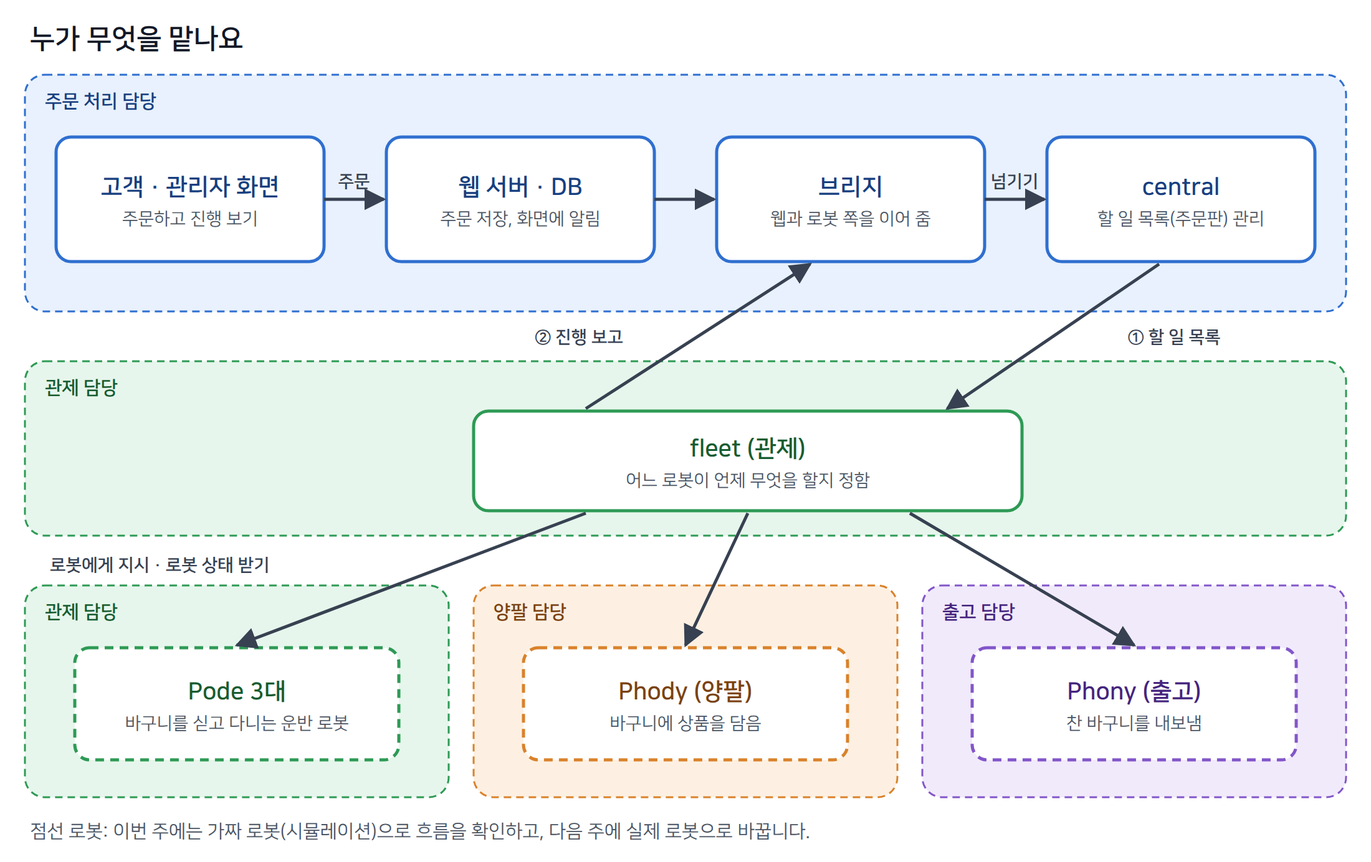
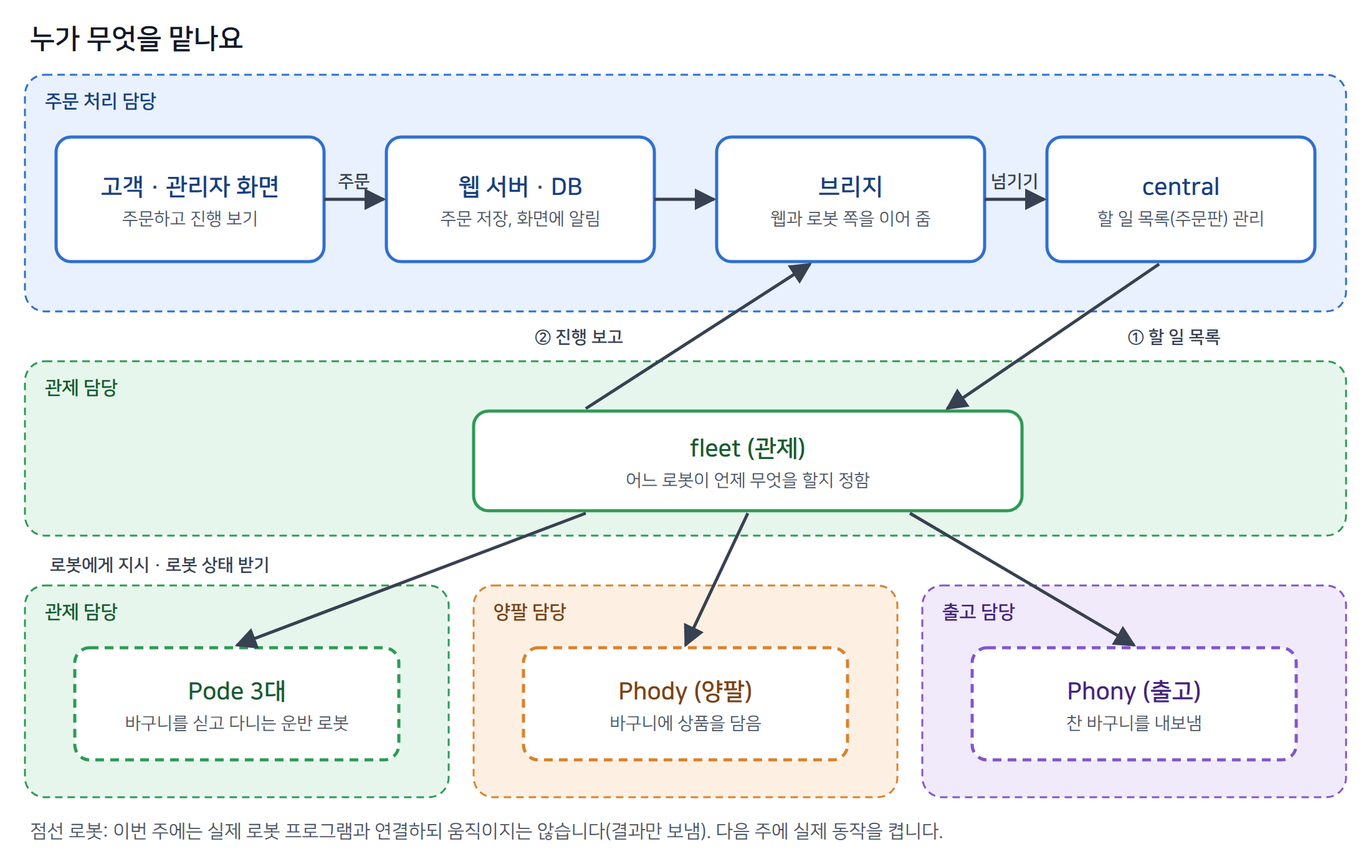
docs(설계): 주문 흐름 1차에 로봇 3종 연동(실제 동작 제외)과 팔 이름 변경 반영
- 범위: Pode · Phody · Phony 로봇 노드를 0.6 인터페이스로 연결, 실제 동작만 뺌 (완료 기준 5)
- 4.5 fleet ↔ 로봇 인터페이스와 동작 없음 처리 제안
- 4.6 팔 이름 arm1 · arm2 · arm3 → arm_left · arm_right · arm_ship (바꿀 곳, 한 커밋 원칙)
- 6.3 로봇 구간 규칙 이번 주 / 다음 주 구분, 8장 양팔 · 출고 할 일, 9장 동작 없음 처리 · 시험 네트워크
- 안내 그림 1 설명 문구 수정

Changed region(s): [[0.2164, 0.9321, 0.68, 0.9942], [0.1545, 0.9321, 0.1855, 0.9942]]

diff --git a/design/diagrams/sprint4_guide/1_전체_구성과_담당.html b/design/diagrams/sprint4_guide/1_전체_구성과_담당.html
@@ -1,1 +1,1 @@
-<!doctype html><meta charset="utf-8"><style>html,body{margin:0}</style><svg xmlns="http://www.w3.org/2000/svg" width="1100" height="692" viewBox="0 0 1100 692" font-family="NanumSquare, 'Noto Sans CJK KR', sans-serif"><defs><marker id="ah" viewBox="0 0 10 10" refX="9" refY="5" markerWidth="7" markerHeight="7" orient="auto-start-reverse"><path d="M0,0 L10,5 L0,10 z" fill="#374151"/></marker></defs><rect width="1100" height="692" fill="#ffffff"/><text x="24" y="38" font-size="22" font-weight="bold" fill="#111827" text-anchor="start">누가 무엇을 맡나요</text><rect x="20" y="60" width="1060" height="190" rx="16" fill="#e8f1fd" stroke="#2f6fd0" stroke-width="1.5" stroke-dasharray="6 4"/><text x="36" y="86" font-size="15" font-weight="bold" fill="#163f80" text-anchor="start">주문 처리 담당</text><rect x="45" y="110" width="215" height="100" rx="12" fill="#fff" stroke="#2f6fd0" stroke-width="2.5"/><text x="152.5" y="156.0" font-size="19" font-weight="bold" fill="#163f80" text-anchor="middle">고객 · 관리자 화면</text><text x="152.5" y="180.0" font-size="14" font-weight="normal" fill="#4b5563" text-anchor="middle">주문하고 진행 보기</text><rect x="310" y="110" width="215" height="100" rx="12" fill="#fff" stroke="#2f6fd0" stroke-width="2.5"/><text x="417.5" y="156.0" font-size="19" font-weight="bold" fill="#163f80" text-anchor="middle">웹 서버 · DB</text><text x="417.5" y="180.0" font-size="14" font-weight="normal" fill="#4b5563" text-anchor="middle">주문 저장, 화면에 알림</text><rect x="575" y="110" width="215" height="100" rx="12" fill="#fff" stroke="#2f6fd0" stroke-width="2.5"/><text x="682.5" y="156.0" font-size="19" font-weight="bold" fill="#163f80" text-anchor="middle">브리지</text><text x="682.5" y="180.0" font-size="14" font-weight="normal" fill="#4b5563" text-anchor="middle">웹과 로봇 쪽을 이어 줌</text><rect x="840" y="110" width="215" height="100" rx="12" fill="#fff" stroke="#2f6fd0" stroke-width="2.5"/><text x="947.5" y="156.0" font-size="19" font-weight="bold" fill="#163f80" text-anchor="middle">central</text><text x="947.5" y="180.0" font-size="14" font-weight="normal" fill="#4b5563" text-anchor="middle">할 일 목록(주문판) 관리</text><line x1="260" y1="160" x2="308" y2="160" stroke="#374151" stroke-width="2.5" marker-end="url(#ah)"/><text x="284.0" y="150" font-size="14" font-weight="bold" fill="#374151" text-anchor="middle">주문</text><line x1="525" y1="160" x2="573" y2="160" stroke="#374151" stroke-width="2.5" marker-end="url(#ah)"/><line x1="790" y1="160" x2="838" y2="160" stroke="#374151" stroke-width="2.5" marker-end="url(#ah)"/><text x="814.0" y="150" font-size="14" font-weight="bold" fill="#374151" text-anchor="middle">넘기기</text><rect x="20" y="290" width="1060" height="140" rx="16" fill="#e6f6ec" stroke="#2e9a55" stroke-width="1.5" stroke-dasharray="6 4"/><text x="36" y="316" font-size="15" font-weight="bold" fill="#165c30" text-anchor="start">관제 담당</text><rect x="380" y="330" width="440" height="80" rx="12" fill="#fff" stroke="#2e9a55" stroke-width="2.5"/><text x="600.0" y="366.0" font-size="19" font-weight="bold" fill="#165c30" text-anchor="middle">fleet (관제)</text><text x="600.0" y="390.0" font-size="14" font-weight="normal" fill="#4b5563" text-anchor="middle">어느 로봇이 언제 무엇을 할지 정함</text><line x1="930" y1="212" x2="760" y2="328" stroke="#374151" stroke-width="2.5" marker-end="url(#ah)"/><text x="905" y="275" font-size="14" font-weight="bold" fill="#374151" text-anchor="start">① 할 일 목록</text><line x1="470" y1="328" x2="650" y2="212" stroke="#374151" stroke-width="2.5" marker-end="url(#ah)"/><text x="500" y="275" font-size="14" font-weight="bold" fill="#374151" text-anchor="end">② 진행 보고</text><rect x="20" y="470" width="340" height="170" rx="16" fill="#e6f6ec" stroke="#2e9a55" stroke-width="1.5" stroke-dasharray="6 4"/><text x="36" y="496" font-size="15" font-weight="bold" fill="#165c30" text-anchor="start">관제 담당</text><rect x="380" y="470" width="340" height="170" rx="16" fill="#fdf0e2" stroke="#d9822b" stroke-width="1.5" stroke-dasharray="6 4"/><text x="396" y="496" font-size="15" font-weight="bold" fill="#7a4210" text-anchor="start">양팔 담당</text><rect x="740" y="470" width="340" height="170" rx="16" fill="#f1eafb" stroke="#8256c9" stroke-width="1.5" stroke-dasharray="6 4"/><text x="756" y="496" font-size="15" font-weight="bold" fill="#45247d" text-anchor="start">출고 담당</text><rect x="60" y="520" width="260" height="90" rx="12" fill="#fff" stroke="#2e9a55" stroke-width="2.5" stroke-dasharray="7 5"/><text x="190.0" y="561.0" font-size="19" font-weight="bold" fill="#165c30" text-anchor="middle">Pode 3대</text><text x="190.0" y="585.0" font-size="14" font-weight="normal" fill="#4b5563" text-anchor="middle">바구니를 싣고 다니는 운반 로봇</text><rect x="420" y="520" width="260" height="90" rx="12" fill="#fff" stroke="#d9822b" stroke-width="2.5" stroke-dasharray="7 5"/><text x="550.0" y="561.0" font-size="19" font-weight="bold" fill="#7a4210" text-anchor="middle">Phody (양팔)</text><text x="550.0" y="585.0" font-size="14" font-weight="normal" fill="#4b5563" text-anchor="middle">바구니에 상품을 담음</text><rect x="780" y="520" width="260" height="90" rx="12" fill="#fff" stroke="#8256c9" stroke-width="2.5" stroke-dasharray="7 5"/><text x="910.0" y="561.0" font-size="19" font-weight="bold" fill="#45247d" text-anchor="middle">Phony (출고)</text><text x="910.0" y="585.0" font-size="14" font-weight="normal" fill="#4b5563" text-anchor="middle">찬 바구니를 내보냄</text><line x1="470" y1="412" x2="190" y2="518" stroke="#374151" stroke-width="2.5" marker-end="url(#ah)"/><line x1="600" y1="412" x2="550" y2="518" stroke="#374151" stroke-width="2.5" marker-end="url(#ah)"/><line x1="730" y1="412" x2="910" y2="518" stroke="#374151" stroke-width="2.5" marker-end="url(#ah)"/><text x="40" y="458" font-size="14" font-weight="bold" fill="#374151" text-anchor="start">로봇에게 지시 · 로봇 상태 받기</text><text x="24" y="672" font-size="15" font-weight="normal" fill="#4b5563" text-anchor="start">점선 로봇: 이번 주에는 가짜 로봇(시뮬레이션)으로 흐름을 확인하고, 다음 주에 실제 로봇으로 바꿉니다.</text></svg>
+<!doctype html><meta charset="utf-8"><style>html,body{margin:0}</style><svg xmlns="http://www.w3.org/2000/svg" width="1100" height="692" viewBox="0 0 1100 692" font-family="NanumSquare, 'Noto Sans CJK KR', sans-serif"><defs><marker id="ah" viewBox="0 0 10 10" refX="9" refY="5" markerWidth="7" markerHeight="7" orient="auto-start-reverse"><path d="M0,0 L10,5 L0,10 z" fill="#374151"/></marker></defs><rect width="1100" height="692" fill="#ffffff"/><text x="24" y="38" font-size="22" font-weight="bold" fill="#111827" text-anchor="start">누가 무엇을 맡나요</text><rect x="20" y="60" width="1060" height="190" rx="16" fill="#e8f1fd" stroke="#2f6fd0" stroke-width="1.5" stroke-dasharray="6 4"/><text x="36" y="86" font-size="15" font-weight="bold" fill="#163f80" text-anchor="start">주문 처리 담당</text><rect x="45" y="110" width="215" height="100" rx="12" fill="#fff" stroke="#2f6fd0" stroke-width="2.5"/><text x="152.5" y="156.0" font-size="19" font-weight="bold" fill="#163f80" text-anchor="middle">고객 · 관리자 화면</text><text x="152.5" y="180.0" font-size="14" font-weight="normal" fill="#4b5563" text-anchor="middle">주문하고 진행 보기</text><rect x="310" y="110" width="215" height="100" rx="12" fill="#fff" stroke="#2f6fd0" stroke-width="2.5"/><text x="417.5" y="156.0" font-size="19" font-weight="bold" fill="#163f80" text-anchor="middle">웹 서버 · DB</text><text x="417.5" y="180.0" font-size="14" font-weight="normal" fill="#4b5563" text-anchor="middle">주문 저장, 화면에 알림</text><rect x="575" y="110" width="215" height="100" rx="12" fill="#fff" stroke="#2f6fd0" stroke-width="2.5"/><text x="682.5" y="156.0" font-size="19" font-weight="bold" fill="#163f80" text-anchor="middle">브리지</text><text x="682.5" y="180.0" font-size="14" font-weight="normal" fill="#4b5563" text-anchor="middle">웹과 로봇 쪽을 이어 줌</text><rect x="840" y="110" width="215" height="100" rx="12" fill="#fff" stroke="#2f6fd0" stroke-width="2.5"/><text x="947.5" y="156.0" font-size="19" font-weight="bold" fill="#163f80" text-anchor="middle">central</text><text x="947.5" y="180.0" font-size="14" font-weight="normal" fill="#4b5563" text-anchor="middle">할 일 목록(주문판) 관리</text><line x1="260" y1="160" x2="308" y2="160" stroke="#374151" stroke-width="2.5" marker-end="url(#ah)"/><text x="284.0" y="150" font-size="14" font-weight="bold" fill="#374151" text-anchor="middle">주문</text><line x1="525" y1="160" x2="573" y2="160" stroke="#374151" stroke-width="2.5" marker-end="url(#ah)"/><line x1="790" y1="160" x2="838" y2="160" stroke="#374151" stroke-width="2.5" marker-end="url(#ah)"/><text x="814.0" y="150" font-size="14" font-weight="bold" fill="#374151" text-anchor="middle">넘기기</text><rect x="20" y="290" width="1060" height="140" rx="16" fill="#e6f6ec" stroke="#2e9a55" stroke-width="1.5" stroke-dasharray="6 4"/><text x="36" y="316" font-size="15" font-weight="bold" fill="#165c30" text-anchor="start">관제 담당</text><rect x="380" y="330" width="440" height="80" rx="12" fill="#fff" stroke="#2e9a55" stroke-width="2.5"/><text x="600.0" y="366.0" font-size="19" font-weight="bold" fill="#165c30" text-anchor="middle">fleet (관제)</text><text x="600.0" y="390.0" font-size="14" font-weight="normal" fill="#4b5563" text-anchor="middle">어느 로봇이 언제 무엇을 할지 정함</text><line x1="930" y1="212" x2="760" y2="328" stroke="#374151" stroke-width="2.5" marker-end="url(#ah)"/><text x="905" y="275" font-size="14" font-weight="bold" fill="#374151" text-anchor="start">① 할 일 목록</text><line x1="470" y1="328" x2="650" y2="212" stroke="#374151" stroke-width="2.5" marker-end="url(#ah)"/><text x="500" y="275" font-size="14" font-weight="bold" fill="#374151" text-anchor="end">② 진행 보고</text><rect x="20" y="470" width="340" height="170" rx="16" fill="#e6f6ec" stroke="#2e9a55" stroke-width="1.5" stroke-dasharray="6 4"/><text x="36" y="496" font-size="15" font-weight="bold" fill="#165c30" text-anchor="start">관제 담당</text><rect x="380" y="470" width="340" height="170" rx="16" fill="#fdf0e2" stroke="#d9822b" stroke-width="1.5" stroke-dasharray="6 4"/><text x="396" y="496" font-size="15" font-weight="bold" fill="#7a4210" text-anchor="start">양팔 담당</text><rect x="740" y="470" width="340" height="170" rx="16" fill="#f1eafb" stroke="#8256c9" stroke-width="1.5" stroke-dasharray="6 4"/><text x="756" y="496" font-size="15" font-weight="bold" fill="#45247d" text-anchor="start">출고 담당</text><rect x="60" y="520" width="260" height="90" rx="12" fill="#fff" stroke="#2e9a55" stroke-width="2.5" stroke-dasharray="7 5"/><text x="190.0" y="561.0" font-size="19" font-weight="bold" fill="#165c30" text-anchor="middle">Pode 3대</text><text x="190.0" y="585.0" font-size="14" font-weight="normal" fill="#4b5563" text-anchor="middle">바구니를 싣고 다니는 운반 로봇</text><rect x="420" y="520" width="260" height="90" rx="12" fill="#fff" stroke="#d9822b" stroke-width="2.5" stroke-dasharray="7 5"/><text x="550.0" y="561.0" font-size="19" font-weight="bold" fill="#7a4210" text-anchor="middle">Phody (양팔)</text><text x="550.0" y="585.0" font-size="14" font-weight="normal" fill="#4b5563" text-anchor="middle">바구니에 상품을 담음</text><rect x="780" y="520" width="260" height="90" rx="12" fill="#fff" stroke="#8256c9" stroke-width="2.5" stroke-dasharray="7 5"/><text x="910.0" y="561.0" font-size="19" font-weight="bold" fill="#45247d" text-anchor="middle">Phony (출고)</text><text x="910.0" y="585.0" font-size="14" font-weight="normal" fill="#4b5563" text-anchor="middle">찬 바구니를 내보냄</text><line x1="470" y1="412" x2="190" y2="518" stroke="#374151" stroke-width="2.5" marker-end="url(#ah)"/><line x1="600" y1="412" x2="550" y2="518" stroke="#374151" stroke-width="2.5" marker-end="url(#ah)"/><line x1="730" y1="412" x2="910" y2="518" stroke="#374151" stroke-width="2.5" marker-end="url(#ah)"/><text x="40" y="458" font-size="14" font-weight="bold" fill="#374151" text-anchor="start">로봇에게 지시 · 로봇 상태 받기</text><text x="24" y="672" font-size="15" font-weight="normal" fill="#4b5563" text-anchor="start">점선 로봇: 이번 주에는 실제 로봇 프로그램과 연결하되 움직이지는 않습니다(결과만 보냄). 다음 주에 실제 동작을 켭니다.</text></svg>

diff --git a/design/diagrams/sprint4_guide/make.py b/design/diagrams/sprint4_guide/make.py
@@ -67,7 +67,7 @@ b += node(420, 520, 260, 90, "양팔", "Phody (양팔)", "바구니에 상품을
 b += node(780, 520, 260, 90, "출고", "Phony (출고)", "찬 바구니를 내보냄", dashed=True)
 b += arrow(470, 412, 190, 518) + arrow(600, 412, 550, 518) + arrow(730, 412, 910, 518)
 b += text(40, 458, "로봇에게 지시 · 로봇 상태 받기", 14, "bold", "#374151", "start")
-b += text(24, 672, "점선 로봇: 이번 주에는 가짜 로봇(시뮬레이션)으로 흐름을 확인하고, 다음 주에 실제 로봇으로 바꿉니다.", 15, "normal", "#4b5563", "start")
+b += text(24, 672, "점선 로봇: 이번 주에는 실제 로봇 프로그램과 연결하되 움직이지는 않습니다(결과만 보냄). 다음 주에 실제 동작을 켭니다.", 15, "normal", "#4b5563", "start")
 page("1_전체_구성과_담당", 1100, 692, b, "누가 무엇을 맡나요")
 
 # 2. 주문 한 건의 여정

diff --git a/docs/설계/주문_흐름_1차_인터페이스.md b/docs/설계/주문_흐름_1차_인터페이스.md
@@ -3,15 +3,17 @@
 - 목적: 이번 주 목표인 **주문 한 건이 화면에서 출고 완료까지 흐름**에 쓰는 인터페이스를 고르고, 구간 B ~ E를 담당별로 나눕니다.
 - 원본: 이름 · 타입 · 칸은 [인터페이스 명세](인터페이스_명세.md)(v0.2)와 `interfaces/fleet_interfaces/contract.yaml`을 따릅니다. 이 문서는 **고른 목록, 담당, 이번 주 간이 처리**만 적습니다.
 - 규칙: [통신 규칙](통신_규칙.md)(`IR-nn`). 간이 처리라도 6장의 규칙은 빼지 않습니다.
-- 상태: 초안 · 작성 2026-11-23 · 수정 2026-11-23 (fleet 앞뒤 구분, 통신 규칙 적용, 0.6 확인 방법, 담당 구분, central · fleet 역할, fleet 추가 작업 C안, `ReportTrip` 상황과 형식, 이번 주 선행 개발 기술 스택, WS `data` 칸, 로봇 처리 먼저 · 웹 뒤로 다시 배치)
+- 상태: 초안 · 작성 2026-11-23 · 수정 2026-11-23 (fleet 앞뒤 구분, 통신 규칙 적용, 0.6 확인 방법, 담당 구분, central · fleet 역할, fleet 추가 작업 C안, `ReportTrip` 상황과 형식, 이번 주 선행 개발 기술 스택, WS `data` 칸, 로봇 처리 먼저 · 웹 뒤로 다시 배치) · 수정 2026-11-24 (AMR · 양팔 · 출고 로봇까지 모두 연동, 실제 동작만 뺌, 팔 이름 변경 포함)
 
 ## 1. 이번 주 범위
 
 | 넣음 | 뺌 (다음 주 이후) |
 |---|---|
-| 주문 접수 → 운반 건 넘기기 → 주문판 → 배정 → 진행 보고 → 화면 반영 → 주문판에서 빼기 | 취소, 관리 명령, `ReportCommand` · `ReportEvent`, 결품 확인(`CheckStock`), 재시작 복구(`ListOpenTrips`), 마감, 실제 로봇 액션, 팔 상태 |
+| 주문 접수 → 운반 건 넘기기 → 주문판 → 배정 → 진행 보고 → 화면 반영 → 주문판에서 빼기 | 취소, 관리 명령, `ReportCommand` · `ReportEvent`, 결품 확인(`CheckStock`), 재시작 복구(`ListOpenTrips`), 마감 |
+| **로봇 연동**: fleet ↔ Pode 3대 · Phody(`arm_left` · `arm_right`) · Phony(`arm_ship`) 로봇 노드를 0.6 인터페이스로 연결 (4.5). 로봇 노드는 명령을 받고 결과 · 상태를 보내되 **움직이지 않음** | **로봇 실제 동작** (Pode 주행 · 도킹, 팔 집기 · 놓기, 바구니 교환) |
+| **팔 이름 변경**: 0.6 `arm1` · `arm2` · `arm3` → 명세 v0.2 `arm_left` · `arm_right` · `arm_ship` (4.6) | 명세 v0.2의 나머지 구간 E 변경: 팔 상태(`/{arm}/state`), `set_lock` · `fault_resolved` · `charge_end`, 팔 멈춤 · 이어서(Q-05) |
 | fleet 켜질 때 세대 번호(`Hello`) | WS `since_seq` 다시 보내기 (첫 연결 스냅샷만) |
-| 로봇 상태 화면 표시 (가짜 값) | 로봇 `set_mode` · `force` |
+| 로봇 상태 화면 표시 (Pode 노드가 보낸 값) | 로봇 `set_mode` · `force` |
 | 운영 모드 선택 절차 (켤 때 정함 + 화면 표시 · 모달, 마감은 생략) | 실행 중 모드 전환, 모드별 마감 |
 
 **완료 기준**
@@ -19,6 +21,7 @@
 2. DB `trip`의 상태 · `report_epoch` · `report_n`이 마지막 보고와 같다.
 3. 같은 `ReportTrip`을 두 번 보내면 두 번째는 `DUPLICATE`이고 DB가 바뀌지 않는다.
 4. 시험 모드로 켜면 고객 화면이 "점검 중"이고 주문이 막힌다.
+5. 가짜 로봇 노드(`sim/fake_robots/`) 없이, 주문 한 건 동안 fleet이 Pode `move_to` · `dock`, Phody `fill_basket`, Phony `swap_basket`을 각 로봇 노드에 보내고 결과를 받는다. 로봇은 움직이지 않는다.
 
 ## 2. 정의 표시와 확인 방법
 
@@ -68,10 +71,10 @@ git show origin/main:interfaces/fleet_interfaces/srv/ReportOrder.srv
 |---|---|
 | **주문** 처리 | 화면 · 웹 · DB(구간 A), 브리지, central. central은 주문 진행 상태를 주문판 기준으로 관리 |
 | **관제** (AMR · 중앙 관제) | fleet 전체: `pc/fleet_core/`(주문 코어 `orders/` · 교통 층), `pc/fleet_manager/`(ROS 노드), Pode(`pode1` ~ `pode3`). fleet 안의 업무 배정은 이후 확정 |
-| **양팔** 로봇 제어 | Phody `arm_left` · `arm_right` (작업대 담기) |
-| **출고** 로봇 제어 | Phony `arm_ship` (바구니 교환) |
+| **양팔** 로봇 제어 | Phody `arm_left` · `arm_right` (작업대 담기). 코드 `arm/arm_control/` |
+| **출고** 로봇 제어 | Phony `arm_ship` (바구니 교환). 코드 `arm/arm_control/` |
 
-로봇 이름은 `config/robots.yaml`을 따릅니다(IR-03).
+로봇 이름은 `config/robots.yaml`을 따릅니다(IR-03). 0.6 이름 `arm1` · `arm2` · `arm3`은 **이번 주에 명세 v0.2 이름 `arm_left` · `arm_right` · `arm_ship`으로 바꿉니다** (4.6). 기본 연동이 끝나면 로봇별로 따로 개발하므로, 그 전에 이름을 맞춰 둡니다.
 
 ### 3.2 central과 fleet의 역할
 
@@ -97,12 +100,12 @@ git show origin/main:interfaces/fleet_interfaces/srv/ReportOrder.srv
 | C 관리 명령 | 운반 건 `TripCommand` 6개, 로봇 `confirm_clear` · `reinstate` · `set_lock` · `fault_resolved` · `resume_arm` · `charge_end` · `force_input` | 주문 (브리지) | **관제** | 없음 |
 | D 주문판 | `/central/orders` | 주문 (central) | **관제** (`orders/`) | 씀 |
 | D 끝난 건 | `/central/report_order` | **관제** | 주문 (central) | 씀 |
-| E 상태 모음 | `/fleet/robots` | **관제** | 주문 (브리지 · central) | 가짜 값 |
-| E 관제 토픽 | `/fleet/assignments` · `/fleet/zones` · `/fleet/heartbeat` | **관제** | 로봇 전부 (각 로봇 담당) | 없음 |
+| E 상태 모음 | `/fleet/robots` | **관제** | 주문 (브리지 · central) | Pode 노드 상태로 채움 (팔은 다음 주) |
+| E 관제 토픽 | `/fleet/assignments` · `/fleet/zones` · `/fleet/heartbeat` | **관제** | 로봇 전부 (각 로봇 담당) | 씀 (0.6 그대로) |
 | E 기록 | `/central/events` | 주문 · 관제 | (기록) | 없음 |
-| E Pode | `/{pode}/state` (Pode → fleet), `move_to` · `dock` · `retreat` 액션, `check_clear` · `charge_end` · `set_lock` 서비스 | **관제** | **관제** (Pode 노드) | 없음 |
-| E Phody | `/{arm}/state` (팔 → fleet), `/workcell/fill_basket` 액션, `fault_resolved` · `set_lock` 서비스, 팔 멈춤 · 이어서(Q-05) | 상태: **양팔** · 명령: **관제** | 상태: **관제** · 명령: **양팔** | 없음 |
-| E Phony | `/arm_ship/state`, `/arm_ship/swap_basket` 액션 | 상태: **출고** · 명령: **관제** | 상태: **관제** · 명령: **출고** | 없음 |
+| E Pode | `/{pode}/state` (Pode → fleet), `move_to` · `dock` · `retreat` 액션, `check_clear` · `charge_end` · `set_lock` 서비스 | **관제** | **관제** (Pode 노드) | `state` · `move_to` · `dock` · `retreat` · `check_clear` (0.6), 동작 없음 |
+| E Phody | `/{arm}/state` (팔 → fleet), `/workcell/fill_basket` 액션, `fault_resolved` · `set_lock` 서비스, 팔 멈춤 · 이어서(Q-05) | 상태: **양팔** · 명령: **관제** | 상태: **관제** · 명령: **양팔** | `/workcell/fill_basket` (0.6)만, 동작 없음. 팔 이름 `arm_left` · `arm_right` |
+| E Phony | `/arm_ship/state`, `/arm_ship/swap_basket` 액션 | 상태: **출고** · 명령: **관제** | 상태: **관제** · 명령: **출고** | `/arm_ship/swap_basket`만 (0.6 `SwapBasket`, 이름만 바뀜), 동작 없음 |
 | E 로봇 공통 | `/{robot}/set_mode` · `/{robot}/force` | **관제** | 관제 · 양팔 · 출고 (각자 로봇 노드) | 없음 |
 
 정리하면 구간 B는 주문 처리 안에서 끝나고(`/system/mode` 구독만 fleet), 주문과 관제가 만나는 곳은 **구간 C · D**와 **`/fleet/robots`**, 관제와 로봇 담당이 만나는 곳은 **구간 E**입니다.
@@ -127,14 +130,14 @@ git show origin/main:interfaces/fleet_interfaces/srv/ReportOrder.srv
 | F-06 | ④ 세대 번호 | `/bridge/hello` | 서비스, fleet → 브리지(서버) | `Hello` | 신규 | DB `bridge_session` epoch +1 후 응답. 같은 `boot_id`로 다시 오면 epoch를 올리지 않고 처음 값을 그대로 돌려줌 (`TODO(Q-09)`). 직전 epoch 진행 건 `HELD`(`FLEET_RESTART`) 처리는 넣되 복구 화면은 없음 | (`fleet_manager_node`, 주문이 만듦) 켜지면 맨 먼저 부름. 다시 보낼 때 같은 `boot_id`를 쓰고, 한도를 넘긴 요청은 버려 마지막 요청의 응답만 씀. 받은 `epoch`를 보고에 씀 |
 | F-08 | ⑥ 보고 | `/bridge/report_trip` | 서비스, fleet → 브리지(서버) | `ReportTrip` | 신규 | F-09로 DB에 쓰고 커밋 뒤 응답. 결과 `APPLIED` · `DUPLICATE` · `LATE_REPORT` | (`fleet_manager_node`, 주문이 만듦) 주문 코어가 낸 단계(4.3)를 `ASSIGNED` → `FILLING` → `TRANSPORTING` → `SHIPPED`로 보고. 보고마다 `(report_epoch, report_n)`, 지금 상태 전체 |
 | F-10 | ⑧ 끝 | `/central/report_order` | 서비스, fleet → central(서버) | `ReportOrder` (`order_id`에 `trip_id` 값) | 0.6 | 주문판에서 그 건을 빼고 F-05를 다시 발행. 주문 진행 상태(주문판 기준)를 고침 | (`fleet_manager_node`, 주문이 고침) `SHIPPED` 보고가 `accepted=true`를 받은 뒤 부름. 주문 코어의 0.6 `ReportOrderCmd`는 그대로 |
-| F-11 | 로봇 상태 | `/fleet/robots` | 토픽 LATCHED, fleet → 브리지 · central | `RobotStatusArray` | 0.6 | 브리지가 구독해 F-12로 넘김. central은 구독만 | 가짜 로봇과 도는 실제 fleet이 발행 (Pode 3대). 팔은 다음 주 (0.6에 `kind` 칸 없음) |
+| F-11 | 로봇 상태 | `/fleet/robots` | 토픽 LATCHED, fleet → 브리지 · central | `RobotStatusArray` | 0.6 | 브리지가 구독해 F-12로 넘김. central은 구독만 | Pode 노드 3대의 `/{pode}/state`를 모아 발행. 팔은 다음 주 (0.6에 `kind` 칸 없음) |
 | F-13 | 운영 모드 | `/system/mode` | 토픽 LATCHED, 브리지 → central · fleet | `SystemMode` | 신규 | 브리지가 켤 때 설정 값 발행. central은 받아서 로그만 | 받아서 로그만 (로봇 `set_mode`와 다르면 거부는 다음 주) |
 
 ### 4.3 fleet 안 (관제)
 
 | 번호 | 단계 | 이름 | 이번 주 간이 처리 |
 |---|---|---|---|
-| F-07 | ⑤ 배정 · 운행 | 주문 코어(`orders/`) + 교통 층 | 간이 배정을 따로 만들지 않고, 팀 main의 실제 fleet을 가짜 로봇(`sim/fake_robots/`)과 함께 돌림. 가짜 central은 끄고 우리 central을 씀 (`ros2 launch iponic_bringup pc.launch.py use_fake:=true fake_central:=false`). 단계가 바뀔 때마다 F-08로 보고 |
+| F-07 | ⑤ 배정 · 운행 | 주문 코어(`orders/`) + 교통 층 | 간이 배정을 따로 만들지 않고 팀 main의 실제 fleet을 씀. 가짜 로봇 · 가짜 팔 · 가짜 central을 모두 끄고 로봇 노드(4.5)와 우리 central에 붙임 (`ros2 launch iponic_bringup pc.launch.py use_fake:=false`). 단계가 바뀔 때마다 F-08로 보고 |
 
 이번 주 흐름을 돌리려면 fleet에 아래 두 가지를 더합니다 (C안: 나눠 맡음).
 
@@ -144,7 +147,8 @@ git show origin/main:interfaces/fleet_interfaces/srv/ReportOrder.srv
 | 2. `fleet_manager_node`의 `Hello` · `ReportTrip` 클라이언트 | 주문 | `pc/fleet_manager/`. 0.6 `ReportOrder` 클라이언트와 같은 방식. `epoch` · `report_n` · `stamp`를 붙이고, 다시 보내기 · 최신 상태로 바꿔 끼우기(IR-22 ~ IR-25, IR-40), `ReportOrder`를 `SHIPPED` 보고 뒤에 부르기 |
 
 - 2번은 1번이 들어오기 전에도 만들 수 있습니다. 1번이 늦으면 주문 쪽은 8장의 "가짜 fleet"으로 브리지 · 웹을 먼저 시험합니다.
-- 다음 주에는 가짜 로봇 자리를 실물 로봇(구간 E, 3.3의 Pode · Phody · Phony 줄)으로 바꿔 시험합니다.
+- 로봇 노드가 늦으면 그 로봇만 가짜 노드로 바꿔 돌립니다 (예: `use_fake:=true fake_central:=false fake_robots:=none fake_arms:="arm_ship"`). 완료 기준 5는 가짜 노드 없이 확인합니다.
+- 다음 주에는 로봇 실제 동작을 켜고, 명세 v0.2의 구간 E 변경(1장 "뺌")을 넣습니다.
 
 ### 4.4 `ReportTrip` 상황과 형식 (제안, 첫날 관제와 합의)
 
@@ -216,6 +220,48 @@ class ReportTripCmd:
 - 운반 건마다 하나씩 순서대로 보냅니다. 기다리는 보고가 있으면 최신 상태로 바꿔 끼우고 새 `n`을 붙입니다(IR-23).
 - `SHIPPED` · `PARTIAL` · `CANCELLED`가 `accepted=true`를 받은 뒤에 `ReportOrder`를 부릅니다(F-10).
 
+### 4.5 fleet ↔ 로봇 (구간 E, 동작 없이)
+
+fleet이 로봇 노드에 보내는 명령과 로봇이 보내는 상태입니다. 타입은 **0.6 그대로** 쓰고(contract에 줄이 있는 것만), 팔 이름만 4.6대로 바꿉니다. 로봇 노드는 실제 실행 위치(Pode 본체, 팔 PC)에서 띄우고, **움직이는 부분만 "동작 없음 처리"로 바꿉니다**: 명령을 받으면 정해진 시간을 기다린 뒤 실제로 움직였을 때와 같은 피드백 · 결과 · 상태를 보냅니다.
+
+| 이름 | 종류 · 방향 | 타입 (0.6) | 로봇 노드 (담당) | 동작 없음 처리 (제안) |
+|---|---|---|---|---|
+| `/{pode}/state` | 토픽 STATE, Pode → fleet | `RobotState` | `pode/pode_fsm` (관제) | 초당 5번 안팎. 위치는 마지막으로 도착한 목표 값 |
+| `/fleet/heartbeat` | 토픽 HEARTBEAT, fleet → 로봇 | `std_msgs/Header` | Pode 노드 (관제) | 1.5초 끊기면 멈춤 상태로 바꿈 (IR-34). 실제로 멈출 바퀴는 없음 |
+| `/{pode}/move_to` | 액션, fleet → Pode | `MoveTo` | Pode 노드 (관제) | 주행하지 않고 정해진 시간 뒤 성공. 위치를 목표로 바꿈 |
+| `/{pode}/dock` · `/{pode}/retreat` | 액션, fleet → Pode | `Dock` · `Retreat` | Pode 노드 (관제) | 정해진 시간 뒤 성공. 도킹은 지금 쓰는 `DOCK_STUB=1` 방식과 맞춤 |
+| `/{pode}/check_clear` | 서비스, fleet → Pode | `CheckClear` | Pode 노드 (관제) | 늘 비어 있음으로 응답 |
+| `/workcell/fill_basket` | 액션, fleet → Phody | `FillBasket` | `arm/arm_control` (양팔). `arm_left` · `arm_right`가 서버 하나를 함께 씀 | 집고 놓지 않고 0.6 피드백 순서대로 보낸 뒤 결과. 담은 수 = 요청 수. 결품 시험은 설정으로 `missing`을 냄 |
+| `/arm_ship/swap_basket` | 액션, fleet → Phony | `SwapBasket` | `arm/arm_control` (출고) | 바구니를 바꾸지 않고 0.6 피드백 순서대로 보낸 뒤 성공 |
+
+- 기준 동작은 가짜 노드(`sim/fake_robots/`의 `fake_pode_node` · `fake_workcell_node` · `fake_arm_node`)입니다. 로봇 노드의 피드백 · 결과가 가짜 노드와 같은 순서 · 같은 칸이면 fleet은 차이를 모릅니다.
+- `arm/arm_control`은 지금 README만 있습니다. 양팔 · 출고는 액션 서버를 새로 만듭니다 (실제 동작은 다음 주에 같은 서버 안에 넣음).
+- 동작 없음 처리를 켜는 방법 · 걸리는 시간 · Pode 위치를 바꾸는 방법은 9장에서 정합니다.
+
+### 4.6 팔 이름 바꾸기 (첫날)
+
+명세 v0.2의 이름으로 바꿉니다. Pode(`pode1` ~ `pode3`)와 `/workcell/fill_basket`은 그대로입니다.
+
+| 0.6 | 바꾼 이름 | 로봇 |
+|---|---|---|
+| `arm1` | `arm_left` | Phody 왼팔 |
+| `arm2` | `arm_right` | Phody 오른팔 |
+| `arm3` | `arm_ship` | Phony 출고 팔 (`/arm_ship/swap_basket`) |
+
+바꿀 곳 (`origin/main`에서 `git grep -nwE 'arm[123]'`, 22개 파일 60곳 안팎)
+
+| 곳 | 파일 | 담당 |
+|---|---|---|
+| 계약 | `interfaces/fleet_interfaces/contract.yaml`: `placeholders.arm`, `swap_basket`의 `instances` | 주문 (7장 커밋에 함께) |
+| 로봇 목록 | `config/robots.yaml` | 관제 |
+| fleet | `pc/fleet_core/fleet_core/data/fleet_map_*.yaml`의 `arms` · `server`, `pc/fleet_core/test/` · `pc/fleet_manager/test/`의 시험 값 | 관제 |
+| 가짜 노드 · 실행 | `sim/fake_robots/`(`fake_arm_node`의 `arm_id` 기본값, `fake_workcell_node`, `fakes.launch.py`, 시나리오, 시험), `bringup/iponic_bringup/launch/pc.launch.py`의 `fake_arms` 기본값 · 설명 | 관제 |
+| 설명 | `.github/CODEOWNERS` 주석, `README.md`, `arm/arm_control/README.md`, `arm/arm_vision/README.md`, `docs/개발_규칙.md` | 각 담당 |
+
+- 한 번에 바꿔야 main이 깨지지 않습니다. 계약 · 설정 · 코드 · 시험을 **한 커밋**으로 넣고(IR-90), 그 커밋에서 fleet 시험과 가짜 노드 시험이 지나가야 합니다. 다른 작업은 이 커밋 뒤에 시작합니다.
+- 바꾼 뒤 `git grep -nwE 'arm[123]'`가 아무것도 내지 않으면 끝입니다 (지난 기록인 설계 문서는 빼고).
+- 명세(v0.2)는 이미 바꾼 이름을 쓰고 있어 고칠 것이 없습니다.
+
 ## 5. 웹 · 화면 인터페이스 (HTTP · WS · DB)
 
 고객 · 관리자 화면과 웹, 웹 DB 사이입니다. ROS 인터페이스가 아니며 주문 담당 안에서 끝납니다.
@@ -286,7 +332,7 @@ class ReportTripCmd:
 | IR-32 | 부르기 전 `wait_for_service` 5초 이상. 안 되면 "연결 안 됨" 표시 |
 | IR-33 · IR-70 | LATCHED 토픽은 발행 · 구독 모두 같은 프로필(transient_local). 다시 켜지면 마지막 값을 받고 나서 움직임 |
 | IR-41 | 다시 보낼 때 ±20% 무작위 지연, 노드별 동시 요청 상한 |
-| IR-81 | 시험은 `ROS_DOMAIN_ID=6`이 아닌 도메인 + `ROS_AUTOMATIC_DISCOVERY_RANGE=LOCALHOST` |
+| IR-81 | 시험은 `ROS_DOMAIN_ID=6`이 아닌 도메인 + `ROS_AUTOMATIC_DISCOVERY_RANGE=LOCALHOST`. 단, 로봇 연동 시험은 Pode · 팔 PC와 통신해야 해서 `LOCALHOST`를 쓸 수 없음 (9장) |
 
 ### 6.2 이번 주 인터페이스별
 
@@ -306,15 +352,17 @@ class ReportTripCmd:
 | F-12 · F-14 | IR-51 · IR-52 | 상태 메시지(최신 값만, 순번 없음). 고객 화면에는 "점검 중"만, 내부 사정은 싣지 않음 | 주문 |
 | F-15 | IR-50 | 관리 명령에 넣으면 같은 `Idempotency-Key`면 같은 결과 (이름은 9장) | 주문 |
 
-### 6.3 로봇 구간 담당이 지킬 것 (다음 주부터)
+### 6.3 로봇 구간 (구간 E)
 
-| 규칙 | 지킬 것 | 담당 |
-|---|---|---|
-| IR-21 | 로봇 명령은 목표 값으로 보냄(`set_lock(locked=true)`). 로봇 노드는 최근 32건의 `request_id`를 60초 기억 | 관제(보냄) · 관제 · 양팔 · 출고(로봇 노드) |
-| IR-34 | 관제 신호 0.5초 주기, 1.5초 끊기면 로봇이 멈춤. 로봇 상태는 초당 5번 안팎 | 관제(발행) · 각 로봇 |
-| IR-61 | 로봇 노드가 마지막 안전장치로 한 번 더 판단. 거절은 서비스 응답으로, 상태 토픽으로 알리지 않음 | 관제 · 양팔 · 출고 |
-| IR-62 | 로봇 응답이 없으면 실패가 아니라 "결과 모름"(`ROBOT_TIMEOUT`), 30초 안에 끝 상태를 한 번만 정함 | 관제 |
-| IR-63 · IR-72 | `force`는 시험 모드에서만. 켜질 때 모드 `UNKNOWN`, 강제 값 지움, 락 잠김, 상태에 `boot_id` | 관제 · 양팔 · 출고 |
+동작이 없어도 통신은 실제와 같으므로 이번 주에 쓰는 인터페이스(4.5)에는 규칙을 그대로 지킵니다.
+
+| 규칙 | 지킬 것 | 담당 | 적용 |
+|---|---|---|---|
+| IR-34 | 관제 신호 0.5초 주기, 1.5초 끊기면 로봇이 멈춤. 로봇 상태는 초당 5번 안팎 | 관제(발행) · 각 로봇 | 이번 주 |
+| IR-61 | 로봇 노드가 마지막 안전장치로 한 번 더 판단. 거절은 서비스 · 액션 응답으로, 상태 토픽으로 알리지 않음 | 관제 · 양팔 · 출고 | 이번 주 |
+| IR-62 | 로봇 응답이 없으면 실패가 아니라 "결과 모름"(`ROBOT_TIMEOUT`), 30초 안에 끝 상태를 한 번만 정함 | 관제 | 이번 주 |
+| IR-21 | 로봇 명령은 목표 값으로 보냄(`set_lock(locked=true)`). 로봇 노드는 최근 32건의 `request_id`를 60초 기억 | 관제(보냄) · 관제 · 양팔 · 출고(로봇 노드) | 다음 주 (`set_lock` 등과 함께) |
+| IR-63 · IR-72 | `force`는 시험 모드에서만. 켜질 때 모드 `UNKNOWN`, 강제 값 지움, 락 잠김, 상태에 `boot_id` | 관제 · 양팔 · 출고 | 다음 주 (`set_mode` · `force`와 함께) |
 
 ### 6.4 이번 주에 일부러 줄인 것
 
@@ -325,6 +373,7 @@ IR-93에 따라 설계 검토 사항에 적고, 코드에는 `TODO(Q-nn)`을 남
 | 모드가 다르면 연결 거부 | IR-73 | 로그만 |
 | 재시작 뒤 `ListOpenTrips` → 진행 재개 | IR-71 | `Hello`와 `HELD` 쓰기까지만 |
 | WS `since_seq` 다시 받기 | IR-51 | 첫 연결 스냅샷만 |
+| 로봇 실제 동작 | (규칙 아님) | 동작 없음 처리 (4.5). 로봇 노드 코드에 `TODO`로 표시 |
 
 ## 7. 이번 주에 contract에 넣을 정의
 
@@ -340,22 +389,25 @@ IR-93에 따라 설계 검토 사항에 적고, 코드에는 `TODO(Q-nn)`을 남
 - contract 이름 줄 추가: `/central/submit_trip` · `/bridge/hello` · `/bridge/report_trip` (서비스), `/system/mode` (토픽, LATCHED).
 - `OrderBoard` 칸 추가(`assign_hold` · `close_id`)는 마감과 함께 다음 주에 넣습니다. 이번 주에는 0.6 그대로 씁니다.
 - 0.6 contract의 `services`에는 `report_order`만 central 쪽에 있습니다. `submit_trip`은 새 줄로 넣습니다.
+- 로봇 연동(4.5)은 새 정의가 없습니다. contract에서 바꾸는 것은 팔 이름뿐입니다: `placeholders.arm`과 `swap_basket`의 `instances`를 `arm3` → `arm_ship`으로 (4.6). 이 바꿈은 코드와 함께 넣어야 해서 4.6의 한 커밋에 들어갑니다.
 - contract · 명세 · 통신 규칙은 같은 커밋에서 고칩니다 (IR-90). 넣은 뒤의 contract 버전 값은 넣을 때 정합니다.
 
 ## 8. 담당별 할 일
 
 | 담당 | 번호 | 상대편과 먼저 맞출 것 |
 |---|---|---|
-| 공통 (첫날) | 7장 정의 4개, 4.2 만나는 곳 6개의 칸, `ReportTripCmd` 칸과 단계 대응표(4.4) | 주문 · 관제 |
-| 관제: fleet | F-05(구독) · F-07 · F-11(발행) · F-13(구독), 4.3의 1 (`ReportTripCmd`), 가짜 로봇 실행 환경 | 주문: 4.2 전체 |
+| 공통 (첫날) | 7장 정의 4개, 4.2 만나는 곳 6개의 칸, `ReportTripCmd` 칸과 단계 대응표(4.4), 4.6 팔 이름 바꾸기 커밋 | 주문 · 관제 · 양팔 · 출고 |
+| 관제: fleet | F-05(구독) · F-07 · F-11(발행) · F-13(구독), 4.3의 1 (`ReportTripCmd`), 4.6 팔 이름 바꾸기(fleet · 가짜 노드 · 실행 파일), 로봇 연동 실행 환경 (가짜 노드 없이 띄우기) | 주문: 4.2 전체 · 양팔 · 출고: 4.5 |
+| 관제: Pode | 4.5 Pode 줄: `pode_fsm`의 동작 없음 처리 (주행 · 도킹 · 물러나기 대신 시간 뒤 성공, 위치 바꾸기) | — |
 | 주문: fleet 연결 코드 | 4.3의 2 (`fleet_manager_node`: F-06 · F-08 호출, F-10 부르는 순서) | 관제: 코드 검토 |
 | 주문: central (간이) | F-04(서버) · F-05(발행) · F-10(서버) · 주문판 기준 진행 상태 · F-11 · F-13(구독) | 관제: F-05 · F-10 |
 | 주문: 브리지 | F-03(전달) · F-04(호출) · F-06(서버) · F-08(서버) · F-09(호출) · F-11(구독) · F-12 · F-13(발행) | 관제: F-06 · F-08 · F-11 · F-13 |
 | 주문: 웹 (화면 · API · DB) | F-01 · F-02 · F-03 · F-09 · F-14 · F-15. `ws_event` 트리거가 5.2 WS `data` 칸을 채우게 고침 (`design/db/order_db_extra.sql`, 지금은 `{id, status}`) | — |
-| 양팔 · 출고 | 이번 주 없음. 다음 주 구간 E(3.3) 준비 | 관제 |
-| 통합 시험 | 1장 완료 기준 1 ~ 4 (별도 ROS 도메인, `docs/개발_규칙.md`) | 주문 · 관제 |
+| 양팔 | `/workcell/fill_basket` 액션 서버 (`arm/arm_control`, 0.6 `FillBasket`, `arm_left` · `arm_right`), 동작 없음 처리 | 관제: 피드백 순서 · 결과 칸 · 결품 흉내 |
+| 출고 | `/arm_ship/swap_basket` 액션 서버 (`arm/arm_control`, 0.6 `SwapBasket`), 동작 없음 처리 | 관제: 피드백 순서 · 결과 칸 |
+| 통합 시험 | 1장 완료 기준 1 ~ 5 (로봇 장치 포함, 시험 네트워크는 9장) | 주문 · 관제 · 양팔 · 출고 |
 
-- 제안: 서로 기다리지 않도록 만나는 곳마다 상대편 대역을 하나씩 둡니다. 주문 쪽은 "가짜 fleet"(주문판을 받아 `Hello` → `ReportTrip` → `ReportOrder`를 부름)으로, 관제 쪽은 "가짜 브리지 · central"(주문판 발행, `Hello` · `ReportTrip` · `ReportOrder` 응답)로 먼저 시험합니다.
+- 제안: 서로 기다리지 않도록 만나는 곳마다 상대편 대역을 하나씩 둡니다. 주문 쪽은 "가짜 fleet"(주문판을 받아 `Hello` → `ReportTrip` → `ReportOrder`를 부름)으로, 관제 쪽은 "가짜 브리지 · central"(주문판 발행, `Hello` · `ReportTrip` · `ReportOrder` 응답)로 먼저 시험합니다. 양팔 · 출고는 `ros2 action send_goal`로 자기 서버를 먼저 시험하고, 이어서 fleet을 가짜 팔 대신 자기 노드에 붙여 봅니다.
 
 ## 9. 개발하며 정할 것
 
@@ -367,3 +419,5 @@ IR-93에 따라 설계 검토 사항에 적고, 코드에는 `TODO(Q-nn)`을 남
 | 시험 계획 (별도 문서) | 이번 주 흐름이 돌아간 뒤 작성. 사례(G-02 · G-04 · G-06, NT-01 ~ NT-05, `Hello` 응답 잃음), 잴 것(응답 · DB 커밋 · 재시작 · 로봇 반영 시간, 같은 PC · Wi-Fi), 통과 기준. 결과로 IR-40 표(`Hello` · `ReportOrder` 줄 포함)와 `Hello.boot_id` 쓰임(IR-22 · 명세)을 확정 | Q-09 · Q-10 · IR-40 |
 | 모드 바꾸기 요청 이름 (F-15) | 명세 3.1에 없음. 관리 명령(`POST /api/admin/commands/{command}`)에 넣을지 따로 둘지 | 명세 3.1 |
 | 모드 설정을 두는 곳 | 켤 때 읽는 값(실행 인자 · 설정 파일). 모드별 DB 이름 | 명세 1장 · IR-73 |
+| 동작 없음 처리 방식 (첫날) | 켜는 방법(실행 인자 이름, 기본값), 명령마다 기다리는 시간, Pode 위치를 바꾸는 방법(목표로 바로 · 시간에 따라), 팔 결품 흉내 설정. 다음 주에 실제 동작으로 바꿀 때 같은 노드에서 끄기만 하면 되게 | 4.5 · 관제 · 양팔 · 출고 |
+| 로봇 연동 시험 네트워크 (첫날) | 로봇 노드가 Pode · 팔 PC에 있어 `LOCALHOST`를 못 씀. 운영 도메인 6과 겹치지 않는 시험 도메인 번호와, 그 시간에 다른 시험과 겹치지 않게 하는 방법. 정한 뒤 `docs/개발_규칙.md`에 적음 | IR-81 · 개발 규칙 |
